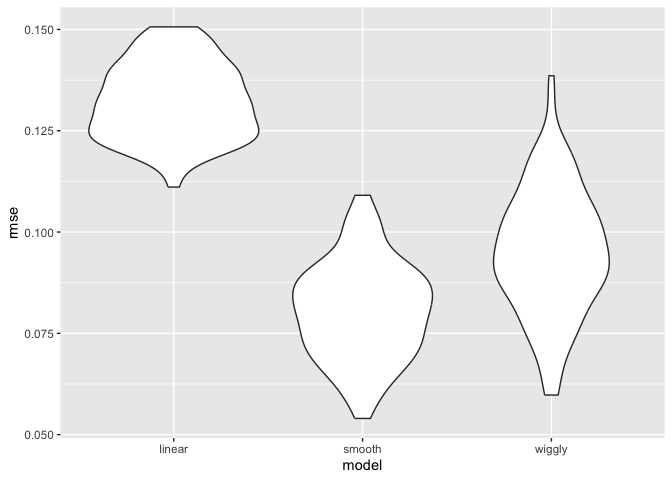
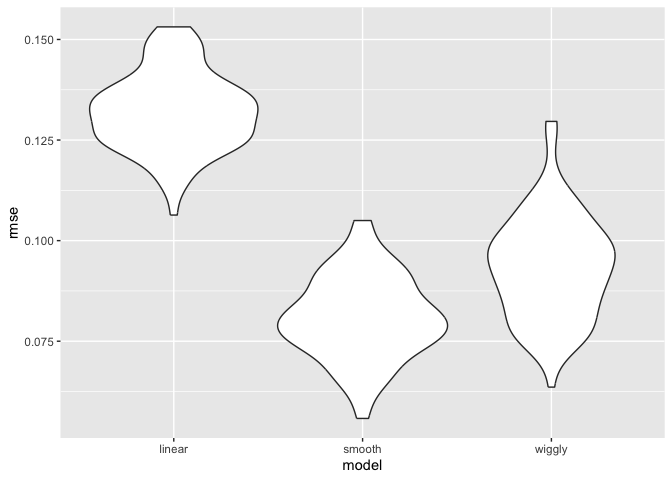
Final commit

diff --git a/cross_validation.md b/cross_validation.md
@@ -126,19 +126,19 @@ Try computing our RMSEs (root mean square error)
 rmse(linear_mod, test_df)
 ```
 
-    ## [1] 0.1406357
+    ## [1] 0.1189345
 
 ``` r
 rmse(smooth_mod, test_df)
 ```
 
-    ## [1] 0.08898497
+    ## [1] 0.07600159
 
 ``` r
 rmse(wiggly_mod, test_df)
 ```
 
-    ## [1] 0.09315303
+    ## [1] 0.08642897
 
 ``` r
 #smaller rmse usually means better fit
@@ -164,16 +164,16 @@ cv_df |> pull(train) |> nth(8) #gives e.g. 8th training and testing split
     ## # A tibble: 176 × 3
     ##    range logratio    id
     ##    <dbl>    <dbl> <int>
-    ##  1   391  -0.0601     2
-    ##  2   393  -0.0419     3
-    ##  3   394  -0.0510     4
-    ##  4   396  -0.0599     5
-    ##  5   397  -0.0284     6
-    ##  6   399  -0.0596     7
-    ##  7   400  -0.0399     8
-    ##  8   403  -0.0395    10
-    ##  9   406  -0.0604    12
-    ## 10   408  -0.0312    13
+    ##  1   390  -0.0504     1
+    ##  2   394  -0.0510     4
+    ##  3   396  -0.0599     5
+    ##  4   397  -0.0284     6
+    ##  5   400  -0.0399     8
+    ##  6   402  -0.0294     9
+    ##  7   406  -0.0604    12
+    ##  8   408  -0.0312    13
+    ##  9   409  -0.0382    14
+    ## 10   411  -0.0756    15
     ## # ℹ 166 more rows
 
 Let’s fit models over and over
@@ -210,3 +210,138 @@ cv_df |>
 ```
 
 ![](cross_validation_files/figure-gfm/unnamed-chunk-13-1.png)<!-- -->
+
+New example:
+
+``` r
+growth_df = read_csv("nepalese_children.csv")
+```
+
+    ## Rows: 2705 Columns: 5
+    ## ── Column specification ────────────────────────────────────────────────────────
+    ## Delimiter: ","
+    ## dbl (5): age, sex, weight, height, armc
+    ## 
+    ## ℹ Use `spec()` to retrieve the full column specification for this data.
+    ## ℹ Specify the column types or set `show_col_types = FALSE` to quiet this message.
+
+Weight v arm_c
+
+``` r
+growth_df |> 
+  ggplot(aes(x = weight, y = armc)) + 
+  geom_point(alpha = .5)
+```
+
+![](cross_validation_files/figure-gfm/unnamed-chunk-15-1.png)<!-- -->
+
+*Let’s show the models we might use:*
+
+``` r
+growth_df =
+  growth_df |> 
+  mutate(
+    weight_cp7 = (weight > 7) * (weight - 7) #change point weight 
+  )
+```
+
+Let’s fit 3 models:
+
+``` r
+linear_mod = lm(armc ~ weight, growth_df) #linear model
+pwl_mod    = lm(armc ~ weight + weight_cp7, growth_df) #piece-wise linear model
+smooth_mod = mgcv::gam(armc ~ s(~weight), data = growth_df) #smooth model
+```
+
+Visualizing goodness of fit for the linear model:
+
+``` r
+growth_df |> 
+  add_predictions(linear_mod) |> 
+  ggplot(aes(x = weight, y = armc)) +
+  geom_point(alpha = 0.5) +
+  geom_line(aes(y = pred, color = "red"))
+```
+
+![](cross_validation_files/figure-gfm/unnamed-chunk-18-1.png)<!-- -->
+
+Does a decent job for the bulk of the data, but at the low end of weight
+the prediction line is not through center of data. Linear models are
+EASY to interpret.
+
+Visualizing piece-wise linear:
+
+``` r
+growth_df |> 
+  add_predictions(pwl_mod) |> 
+  ggplot(aes(x = weight, y = armc)) +
+  geom_point(alpha = 0.5) +
+  geom_line(aes(y = pred, color = "red"))
+```
+
+![](cross_validation_files/figure-gfm/unnamed-chunk-19-1.png)<!-- -->
+
+Visualizing smooth fit:
+
+``` r
+growth_df |> 
+  add_predictions(smooth_mod) |> 
+  ggplot(aes(x = weight, y = armc)) +
+  geom_point(alpha = 0.5) +
+  geom_line(aes(y = pred, color = "red"))
+```
+
+![](cross_validation_files/figure-gfm/unnamed-chunk-20-1.png)<!-- -->
+
+^Looks similar to piece-wise, but smoothed out. Harder to interpret than
+linear.
+
+Time to cross-validate and see which model is best!
+
+Now cross validate:
+
+``` r
+cv_df =
+  crossv_mc(growth_df, n = 100) |> 
+  mutate(
+    train = map(train, as_tibble),
+    test = map(test, as_tibble)
+  )
+```
+
+``` r
+cv_df =
+  cv_df |> 
+  mutate(
+    linear_mod = map(train, \(df) lm(armc ~ weight, data = df)), #fits this linear model across the training dataframe
+    pwl_mod = map(train, \(df) lm(armc ~ weight + weight_cp7, data = df)),
+    smooth_mod = map(train, \(df) mgcv::gam(armc ~ s(weight), data = df))
+  ) |> 
+  mutate(
+    rmse_linear = map2_dbl(linear_mod, test, rmse), #compute rmse for the linear model
+    rmse_pwl = map2_dbl(pwl_mod, test, rmse), 
+    rmse_smooth = map2_dbl(smooth_mod, test, rmse)
+  )
+```
+
+Create my violin plots:
+
+``` r
+cv_df |> 
+  select(starts_with("rmse")) |> 
+  pivot_longer(
+    everything(),
+    names_to = "model",
+    values_to = "rmse",
+    names_prefix = "rmse_"
+  ) |> 
+  ggplot(aes(x = model, y = rmse)) + 
+  geom_violin()
+```
+
+![](cross_validation_files/figure-gfm/unnamed-chunk-23-1.png)<!-- -->
+
+Linear model has a higher distribution of higher rmse. Smooth and pwl
+seem to perform similarly. But tbh, all of them perform relatively
+similary, and you could justify why you prefer each of them most. Might
+come down to interpretation.
